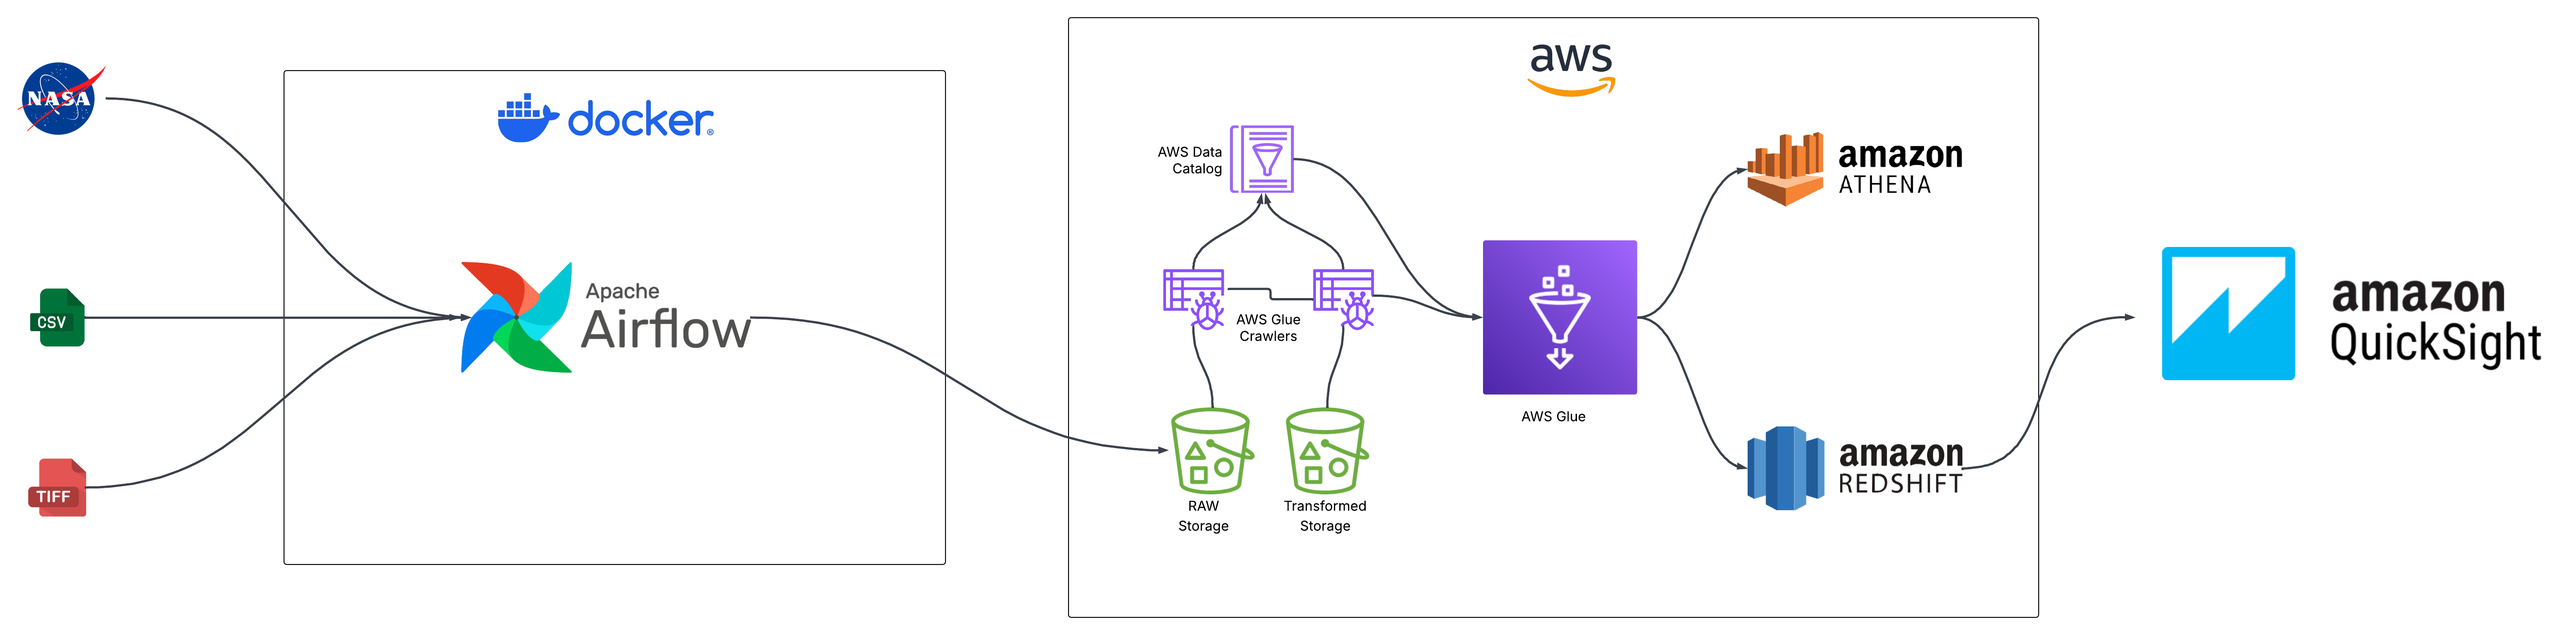
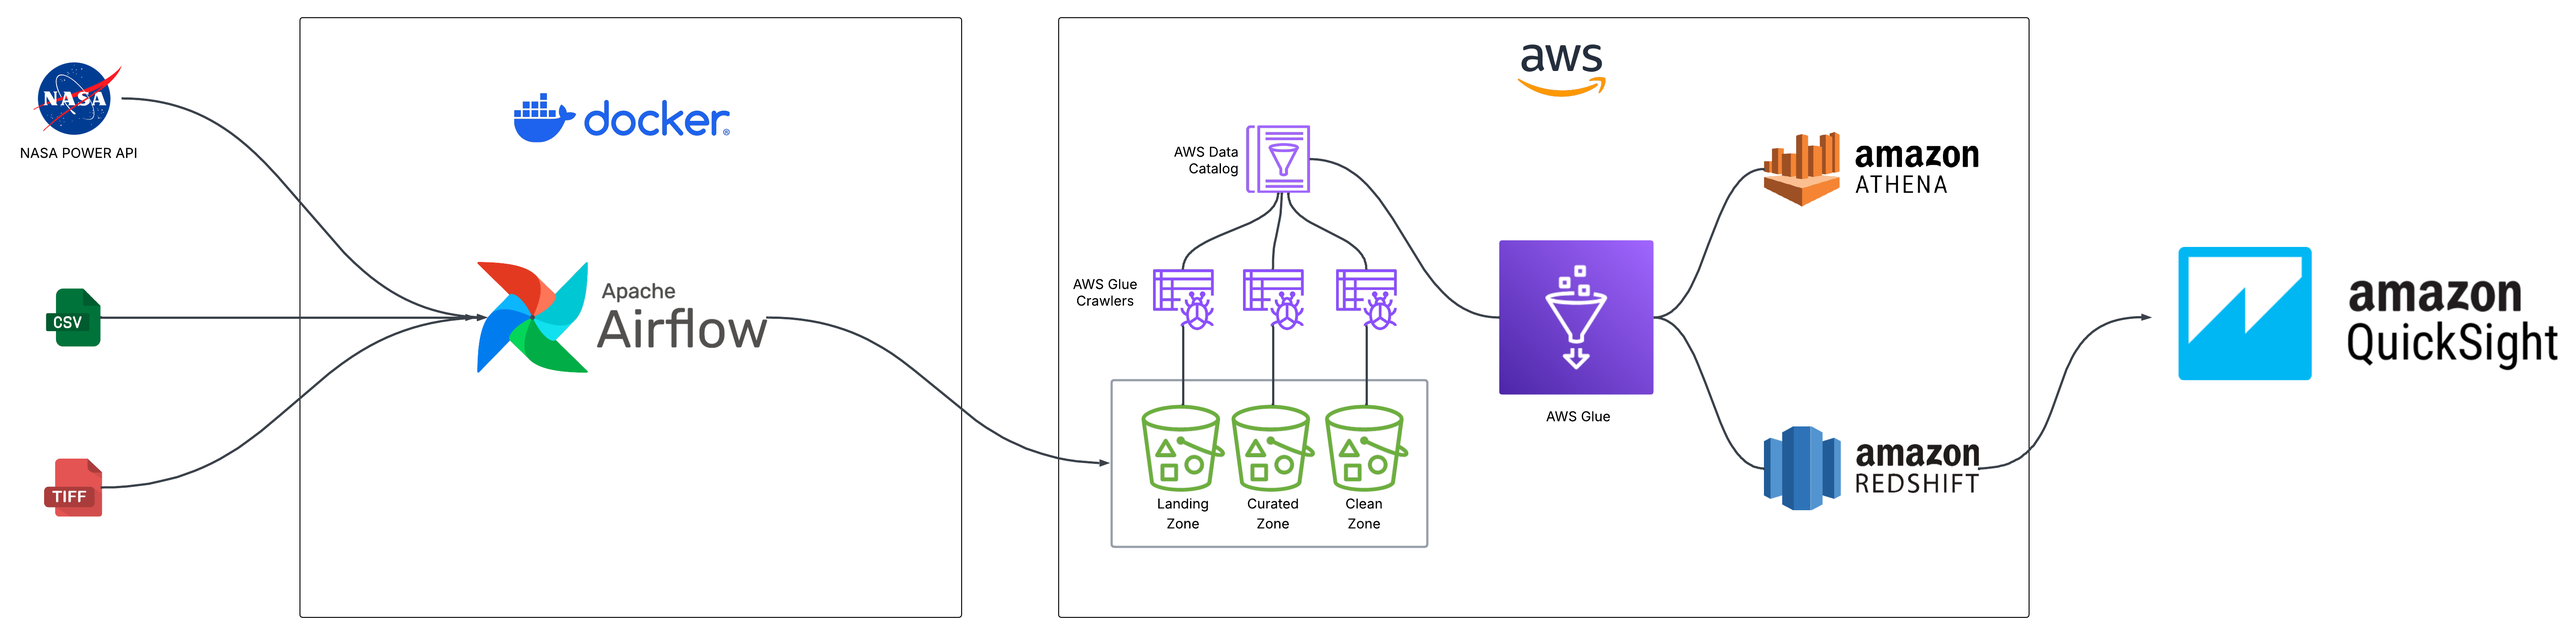
feat: docker, setup initial files
- Create the docker container with pandas, numpy, rasterio, boto3 and requests installed.
- initial python files

diff --git a/test_weather_endpoint.py b/test_weather_endpoint.py
@@ -1,68 +1,64 @@
-
-import time, requests
+import time
+import requests
 import pandas as pd
+from datetime import datetime
 
-def get_weather():
-    place_coords = {
-        "Naha": {"lat": 26.21, "lon": 127.68},
-        "Okinawa": {"lat": 26.33, "lon": 127.80},
-        "Nago": {"lat": 26.59, "lon": 127.98},
-        "Kunigami": {"lat": 26.75, "lon": 128.18}
+PLACES = { 
+    "Naha": {"lat": 26.21, "lon": 127.68},
+    "Okinawa": {"lat": 26.33, "lon": 127.80},
+    "Nago": {"lat": 26.59, "lon": 127.98},
+    "Kunigami": {"lat": 26.75, "lon": 128.18}
+}
+
+BASE_URL = "https://power.larc.nasa.gov/api/temporal/daily/point"
+PARAMETERS = "T2M,T2M_MAX,T2M_MIN,PRECTOTCORR,RH2M,ALLSKY_SFC_SW_DWN"
+
+
+def fetch_weather(lat, lon, start_date, end_date):
+    payload = {
+        "parameters": PARAMETERS,
+        "community": "AG",
+        "longitude": lon,
+        "latitude": lat,
+        "start": start_date,
+        "end": end_date,
+        "format": "JSON"
     }
-    
-    base_url = r"https://power.larc.nasa.gov/api/temporal/daily/point"
-    start_date = "20140101"
-    end_date = "20141231"
-    params_request = "T2M,T2M_MAX,T2M_MIN,PRECTOTCORR,RH2M,ALLSKY_SFC_SW_DWN"
-    
-    print(f"Starting downloading the dataset...\n")
-    
-    for name, coords in place_coords.items():
-        print(f"Downloading: {name} dataset.")
 
-        payload = {
-            "parameters": params_request,
-            "community": "AG",
-            "longitude": coords['lon'],
-            "latitude": coords['lat'],
-            "start": start_date,
-            "end": end_date,
-            "format": "JSON"
-        }
-            
-        try:
-            response = requests.get(base_url, params=payload, verify=True, timeout=30.00)
-            response.raise_for_status()
-            data = response.json()
+    response = requests.get(BASE_URL, params=payload, timeout=30)
+    response.raise_for_status()
+    return response.json()
 
-            properties = data['properties']['parameter']
-            df = pd.DataFrame(properties)
- 
-            df.index = pd.to_datetime(df.index, format=r'%Y%m%d')
-            df.index.name = 'Date'
-            df = df.reset_index()
 
-            df['City'] = name
+def transform_to_df(data, city):
+    props = data["properties"]["parameter"]
+    df = pd.DataFrame(props)
+    df.index = pd.to_datetime(df.index, format="%Y%m%d")
+    df.index.name = "date"
+    df = df.reset_index()
+    df["city"] = city
+    return df
 
-            print("Downloading done.")
-            
-            time.sleep(1)
 
-            print(f"Generating CSV File for '{name}' City.")
+def save_partitioned(df, city, year):
+    path = f"./data/raw/weather/city={city}/year={year}/data.csv"
+    df.to_csv(path, index=False)
 
-            if not df.empty:
-                year_min = df['Date'].dt.year.min()
-                year_max = df['Date'].dt.year.max()
 
-                file_name = f"./data/raw/Okinawa_{name}_Weather_{year_min}_{year_max}.csv"
-                df.to_csv(file_name, index=False)
+def run(year):
+    start = f"{year}0101"
+    end = f"{year}1231"
 
-                print(f"Dataset '{file_name}' ready!")
-                print(f"Total: {len(df)}")
-            
-        except Exception as e:
-            print(f"Error in {name}: {e}")
-            return None
+    for city, coords in PLACES.items():
+        print(f"Fetching {city} - {year}")
 
-get_weather()
-            
+        data = fetch_weather(coords["lat"], coords["lon"], start, end)
+        df = transform_to_df(data, city)
+
+        save_partitioned(df, city, year)
+
+        time.sleep(1)
+
+
+if __name__ == "__main__":
+    run(2014)

diff --git a/src/extract/nasa_weather.py b/src/extract/nasa_weather.py
@@ -1,0 +1,39 @@
+
+
+def extract_weather(start_date: str, end_date: str, output_path: str) -> None:
+    import time, requests
+    import pandas as pd
+
+    places = { 
+        "Naha": {"lat": 26.21, "lon": 127.68},
+        "Okinawa": {"lat": 26.33, "lon": 127.80},
+        "Nago": {"lat": 26.59, "lon": 127.98},
+        "Kunigami": {"lat": 26.75, "lon": 128.18}
+    }
+
+    base_url = "https://power.larc.nasa.gov/api/temporal/daily/point"
+    parameters = "T2M,T2M_MAX,T2M_MIN,PRECTOTCORR,RH2M,ALLSKY_SFC_SW_DWN"
+
+    for city, coords in places.items():
+        payload = {
+            "parameters": parameters,
+            "community": "AG",
+            "longitude": coords["lon"],
+            "latitude": coords["lat"],
+            "start": start_date,
+            "end": end_date,
+            "format": "JSON"
+        }
+
+        r = requests.get(base_url, params=payload, timeout=30)
+        r.raise_for_status()
+
+        df = pd.DataFrame(r.json()["properties"]["parameter"])
+        df.index = pd.to_datetime(df.index)
+        df.reset_index(inplace=True)
+        df["city"] = city
+
+        file = f"{output_path}/weather_{city}.csv"
+        df.to_csv(file, index=False)
+
+        time.sleep(1)

diff --git a/src/transform/tif_to_tabular.py b/src/transform/tif_to_tabular.py
@@ -1,0 +1,23 @@
+
+def tiff_to_dataframe(tiff_path: str, output_csv: str) -> None:
+    import rasterio
+    import pandas as pd
+
+    with rasterio.open(tiff_path) as src:
+        data = src.read(1)
+        transform = src.transform
+
+    rows, cols = data.shape
+    records = []
+
+    for r in range(rows):
+        for c in range(cols):
+            value = data[r, c]
+            if value == src.nodata:
+                continue
+
+            lon, lat = transform * (c, r)
+            records.append((lat, lon, value))
+
+    df = pd.DataFrame(records, columns=["lat", "lon", "value"])
+    df.to_csv(output_csv, index=False)

diff --git a/local_run.py b/local_run.py
@@ -1,0 +1,6 @@
+from src.transform.tif_to_tabular import tiff_to_dataframe
+
+tiff_to_dataframe(
+    tiff_path="./data/raw/soil/clay.tif",
+    output_csv="./data/curated/soilgrid_clay.csv"
+)
